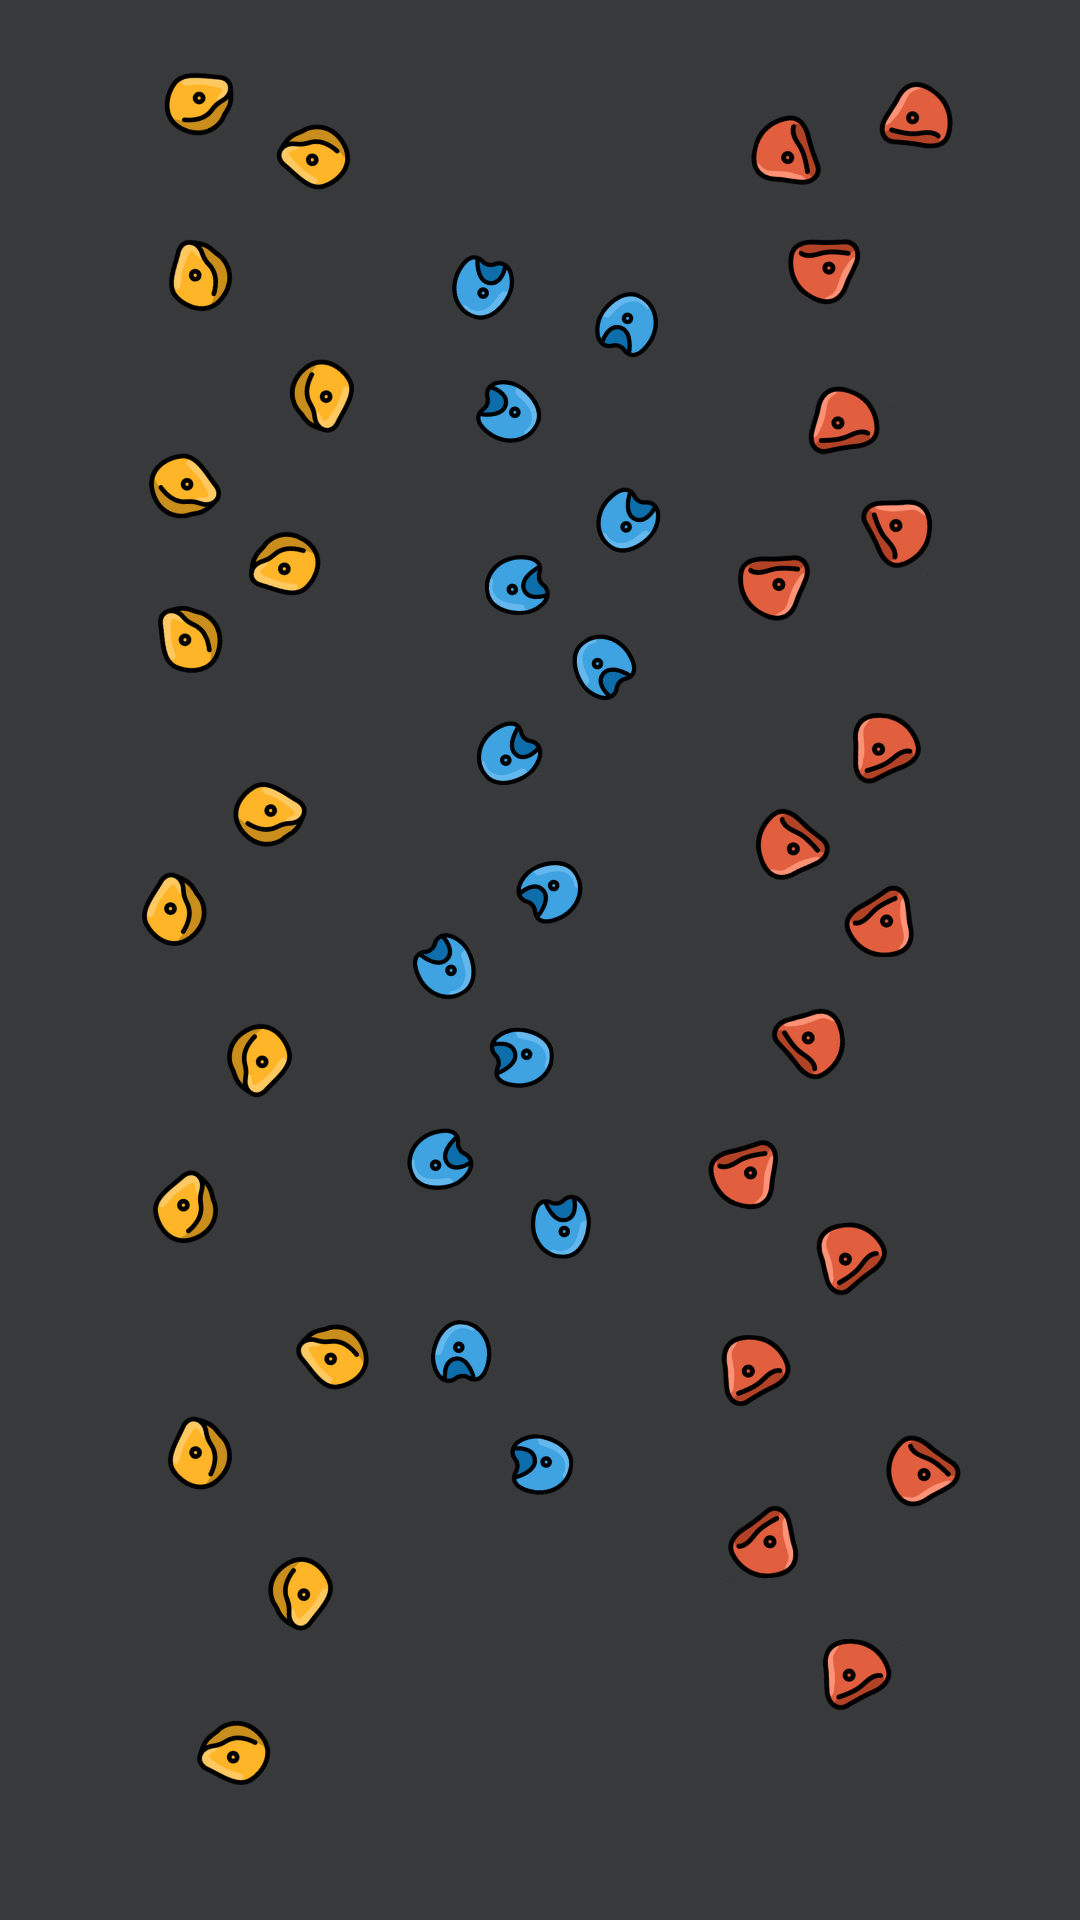
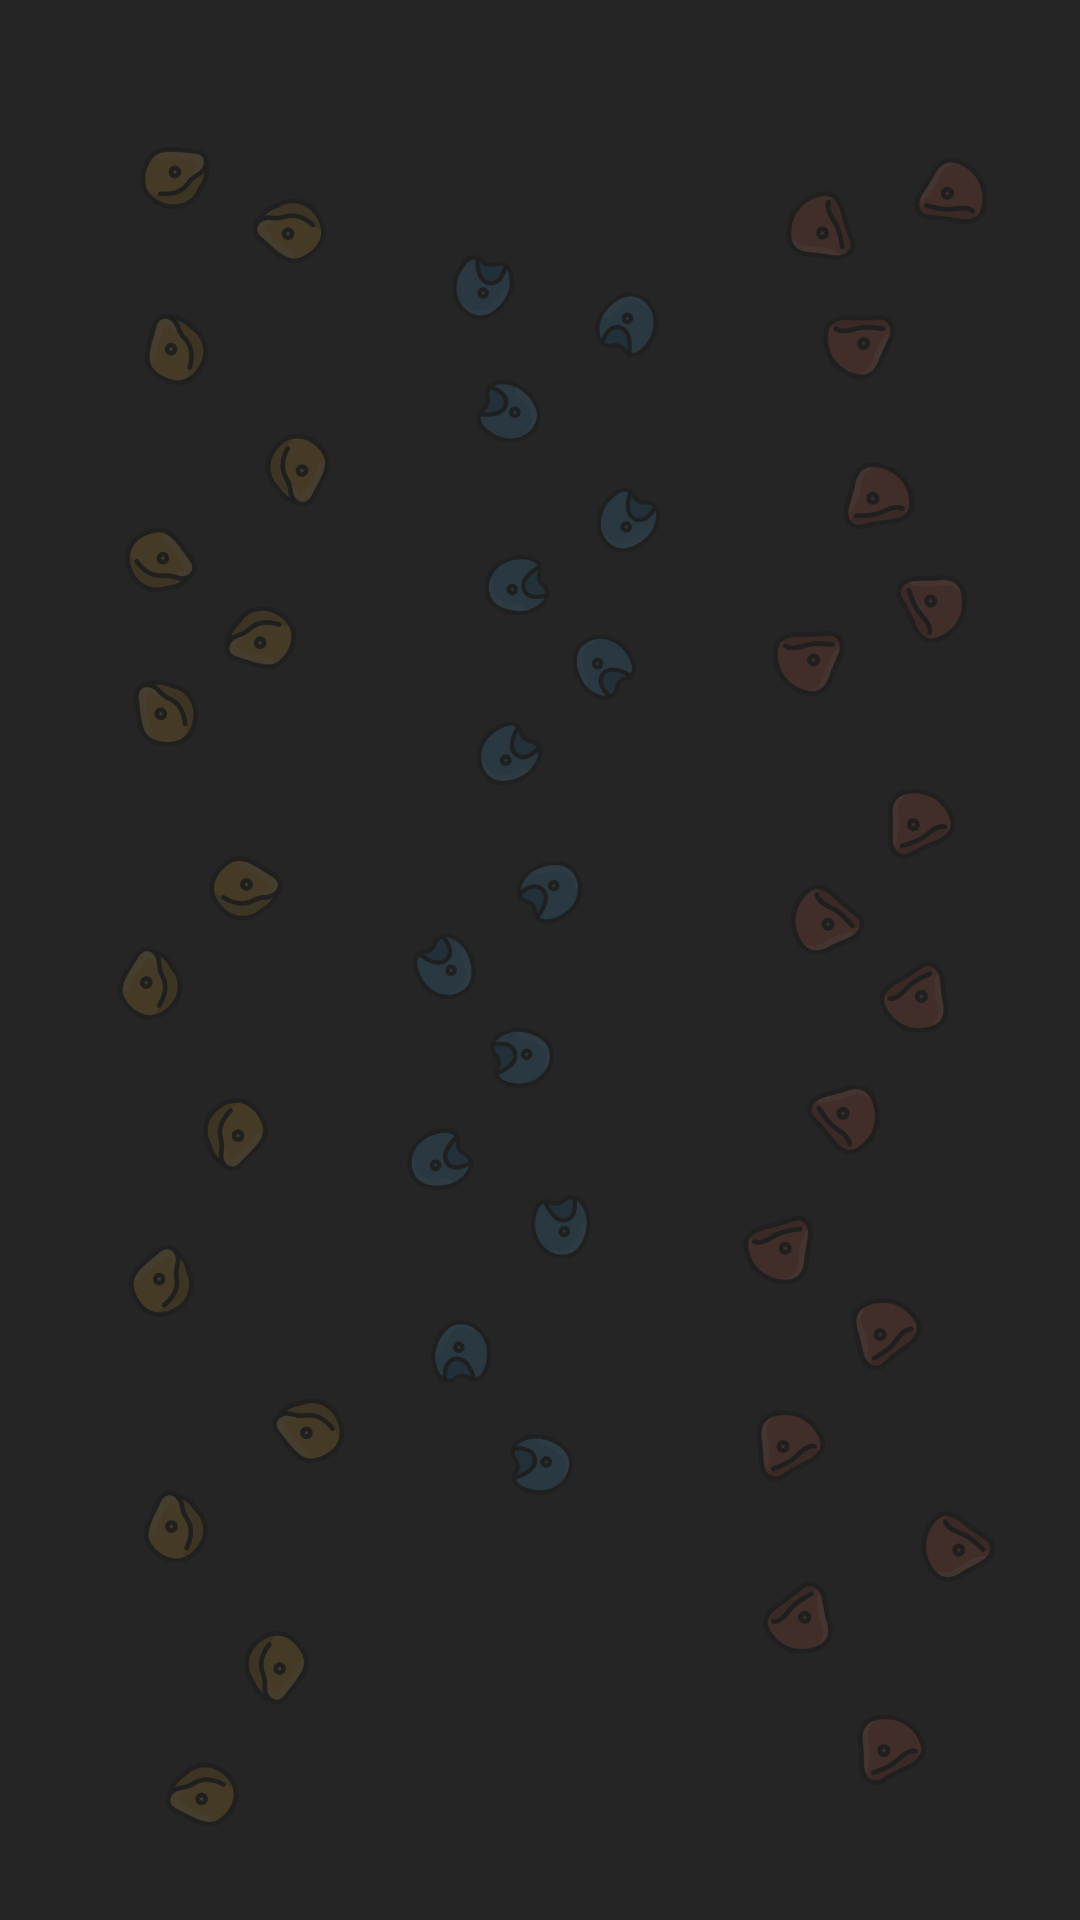
HomePage UI change

diff --git a/frontend/src/pages/home/HomePage.jsx b/frontend/src/pages/home/HomePage.jsx
@@ -20,7 +20,7 @@ const parseGrade = (grade) => {
 
 const HomePage = () => {
   // Queries
-  const { data: authUser } = useQuery({ queryKey: ["authUser"], queryFn: () => fetchData("/api/authUser") });
+  const { data: authUser } = useQuery({ queryKey: ["authUser"], queryFn: () => fetchData("/api/auth/me") });
 
   const { data: topThree, isLoading, isError } = useQuery({
     queryKey: ["topThree"],
@@ -67,21 +67,22 @@ const HomePage = () => {
 
   return (
     // main div that will contain the three sections
-    <div className="bg-custom-bg bg-fixed bg-center flex flex-col justify-center w-full sm:w-[75%] max-w-6xl mx-auto min-h-screen pt-16 text-white mt-20 gap-12">
+    <div className="flex flex-col justify-center w-full sm:w-[75%] max-w-6xl mx-auto min-h-screen pt-16 text-white mt-20 gap-12">
 
       {/* user stats */}
-      <div className="flex flex-col sm:flex-row items-center justify-center sm:justify-evenly bg-[#525458] p-4 rounded-2xl shadow-lg space-y-2 sm:space-y-0 sm:space-x-4">
+      <div className="flex-col sm:flex-row items-center justify-center sm:justify-evenly sm:space-y-5 sm:space-x-4">
         {/* User image and username */}
         <div className="flex flex-col items-center text-center">
           <img
             src={user.profileImg}
             alt="profile"
-            className="w-24 h-24 sm:w-40 sm:h-40 rounded-full"
+            className="w-24 h-24 sm:w-36 sm:h-36 rounded-full"
           />
           <span className="text-xl sm:text-3xl mt-2">{user.username}</span>
         </div>
 
         {/* Stats */}
+        <div className="flex justify-center gap-4">
         {[{
           icon: "/icons/podium.png",
           value: user.rank,
@@ -96,86 +97,90 @@ const HomePage = () => {
           label: "Voies"
         }].map(({ icon, value, label }, index) => (
           <div key={index} className="flex flex-col items-center text-center">
-            <div className="flex flex-col bg-[#FE5F55] h-24 w-32 sm:h-28 sm:w-44 rounded-3xl items-center justify-center shadow-lg mt-4">
-              <img src={icon} alt={label} className="w-8 h-8 sm:w-12 sm:h-12 mb-2" />
+            <div className="flex flex-col bg-[#FE5F55] h-16 w-24 sm:h-24 sm:w-40 rounded-3xl items-center justify-center shadow-lg mt-4">
+              <img src={icon} alt={label} className="w-7 h-7 sm:w-10 sm:h-10" />
               <span className="text-black font-bold text-2xl sm:text-4xl">{value}</span>
             </div>
             <span className="mt-2 sm:mt-4 text-lg sm:text-2xl">{label}</span>
           </div>
         ))}
+        </div>
+
       </div>
 
+      <hr className="border-gray-400 opacity-40 w-3/4 mx-auto mt-8 mb-8" />
+
       {/* Top 3 then next 4 */}
-      <div className="flex flex-col items-center justify-center gap-6 sm:justify-evenly bg-[#525458] p-4 rounded-2xl shadow-lg space-y-2 sm:space-y-0 mt-4 mb-4">
+      <div className="flex flex-col items-center justify-center gap-6 sm:justify-evenly p-4 space-y-2 sm:space-y-0 mb-4 -mt-6">
 
         <h1 className="text-4xl"> Classement </h1>
-        <div className="flex justify-evenly sm:gap-16"> {/* TOP 3 DIV */}
+        <div className="flex justify-evenly sm:gap-2"> {/* TOP 3 DIV */}
           {/* first place */}
           <div className="flex flex-col items-center order-1 sm:order-2 p-4 mt-4">
-            <div className="relative w-32 h-32 sm:w-40 sm:h-40 rounded-full bg-[#FFD700] flex items-center justify-center shadow-lg">
+            <div className="relative w-28 h-28 sm:w-36 sm:h-36 rounded-full bg-[#FFD700] flex items-center justify-center shadow-lg">
               <img
                 src={topThree[0]?.profileImg || "/avatar-placeholder.png"}
                 alt="avatar"
-                className="w-28 h-28 sm:w-36 sm:h-36 rounded-full object-cover"
+                className="w-24 h-24 sm:w-32 sm:h-32 rounded-full object-cover"
               />
-              <div className="absolute -top-2 right-1 bg-[#FFD700] text-black rounded-full w-8 h-8 flex items-center justify-center text-lg shadow-sm">1</div>
+              <div className="absolute -top-2 right-1 bg-[#FFD700] text-black rounded-full w-8 h-8 flex items-center justify-center text-xl font-semibold shadow-sm">1</div>
             </div>
             <span className="text-lg sm:text-2xl mt-2">{topThree[0]?.username}</span>
-            <div className="flex justify-center gap-3 items-center bg-[#FFD700] text-black rounded-lg w-28 h-12 mt-2 shadow-lg">
-              <img src="/icons/points.png" alt="points" className="w-8 h-8" />
-              <span className="text-lg sm:text-3xl font-bold">{topThree[0]?.leaderboardScore}</span>
+            <div className="flex justify-center gap-3 items-center bg-[#FFD700] text-black rounded-lg w-24 h-10 mt-2 shadow-lg">
+              <img src="/icons/points.png" alt="points" className="w-6 h-6" />
+              <span className="text-lg sm:text-2xl font-bold">{topThree[0]?.leaderboardScore}</span>
             </div>
           </div>
           {/* second place */}
           <div className="flex flex-col items-center order-2 sm:order-1 p-4 mt-4 sm:mt-12">
-            <div className="relative w-32 h-32 sm:w-40 sm:h-40 rounded-full bg-[#C0C0C0] flex items-center justify-center shadow-lg">
+            <div className="relative w-28 h-28 sm:w-36 sm:h-36 rounded-full bg-[#C0C0C0] flex items-center justify-center shadow-lg">
               <img
                 src={topThree[1]?.profileImg || "/avatar-placeholder.png"}
                 alt="avatar"
-                className="w-28 h-28 sm:w-36 sm:h-36 rounded-full object-cover"
+                className="w-24 h-24 sm:w-32 sm:h-32 rounded-full object-cover"
               />
-              <div className="absolute -top-2 right-1 bg-[#C0C0C0] text-black rounded-full w-8 h-8 flex items-center justify-center text-lg shadow-sm">2</div>
+              <div className="absolute -top-2 right-1 bg-[#C0C0C0] text-black rounded-full w-8 h-8 flex items-center justify-center text-xl font-semibold shadow-sm">2</div>
             </div>
             <span className="text-lg sm:text-2xl mt-2">{topThree[1]?.username}</span>
-            <div className="flex justify-center gap-3 items-center bg-[#C0C0C0] text-black rounded-lg w-28 h-12 mt-2 shadow-lg">
-              <img src="/icons/points.png" alt="points" className="w-8 h-8" />
-              <span className="text-lg sm:text-3xl font-bold">{topThree[1]?.leaderboardScore}</span>
+            <div className="flex justify-center gap-3 items-center bg-[#C0C0C0] text-black rounded-lg w-24 h-10 mt-2 shadow-lg">
+              <img src="/icons/points.png" alt="points" className="w-6 h-6" />
+              <span className="text-lg sm:text-2xl font-bold">{topThree[1]?.leaderboardScore}</span>
             </div>
           </div>
           {/* third place */}
           <div className="flex flex-col items-center order-3 sm:order-3 p-4 mt-4 sm:mt-12">
-            <div className="relative w-32 h-32 sm:w-40 sm:h-40 rounded-full bg-[#cd7f32] flex items-center justify-center shadow-lg">
+            <div className="relative w-28 h-28 sm:w-36 sm:h-36 rounded-full bg-[#cd7f32] flex items-center justify-center shadow-lg">
               <img
                 src={topThree[2]?.profileImg || "/avatar-placeholder.png"}
                 alt="avatar"
-                className="w-28 h-28 sm:w-36 sm:h-36 rounded-full object-cover"
+                className="w-24 h-24 sm:w-32 sm:h-32 rounded-full object-cover"
               />
-              <div className="absolute -top-2 right-1 bg-[#cd7f32] text-black rounded-full w-8 h-8 flex items-center justify-center text-lg shadow-sm">3</div>
+              <div className="absolute -top-2 right-1 bg-[#cd7f32] text-black rounded-full w-8 h-8 flex items-center justify-center text-xl font-semibold shadow-sm">3</div>
             </div>
             <span className="text-lg sm:text-2xl mt-2">{topThree[2]?.username}</span>
-            <div className="flex justify-center gap-3 items-center bg-[#cd7f32] text-black rounded-lg w-28 h-12 mt-2 shadow-lg">
-              <img src="/icons/points.png" alt="points" className="w-8 h-8" />
-              <span className="text-lg sm:text-3xl font-bold">{topThree[2]?.leaderboardScore}</span>
+            <div className="flex justify-center gap-3 items-center bg-[#cd7f32] text-black rounded-lg w-24 h-10 mt-2 shadow-lg">
+              <img src="/icons/points.png" alt="points" className="w-6 h-6" />
+              <span className="text-lg sm:text-2xl font-bold">{topThree[2]?.leaderboardScore}</span>
             </div>
           </div>
         </div>
 
-        <div className="flex flex-wrap justify-evenly sm:gap-12"> {/* NEXT 4 DIV */}
+        <div className="flex flex-wrap justify-evenly sm:gap-6"> {/* NEXT 4 DIV */}
           {restOfList.length > 0 ? (
             restOfList.slice(0, 4).map((user, index) => (
               <div key={index} className="flex flex-col items-center p-4 mt-4">
-                <div className="relative w-32 h-32 sm:w-32 sm:h-32 rounded-full bg-[#808080] flex items-center justify-center shadow-lg">
+                <div className="relative w-32 h-32 sm:w-28 sm:h-28 rounded-full bg-[#808080] flex items-center justify-center shadow-lg">
                   <img
                     src={user.profileImg || "/avatar-placeholder.png"}
                     alt="avatar"
-                    className="w-28 h-28 sm:w-32 sm:h-32 rounded-full object-cover"
+                    className="w-28 h-28 sm:w-24 sm:h-24 rounded-full object-cover"
                   />
                   <div className="absolute -top-2 right-1 bg-[#808080] text-black rounded-full w-8 h-8 flex items-center justify-center text-xl font-semibold shadow-sm">{index + 4}</div>
                 </div>
                 <span className="text-lg sm:text-2xl mt-2">{user.username}</span>
-                <div className="flex justify-center gap-3 items-center bg-[#808080] text-black rounded-lg w-28 h-12 mt-2 shadow-lg">
-                  <img src="/icons/points.png" alt="points" className="w-8 h-8" />
-                  <span className="text-lg sm:text-3xl font-bold">{user.leaderboardScore}</span>
+                <div className="flex justify-center gap-3 items-center bg-[#808080] text-black rounded-lg w-24 h-10 mt-2 shadow-lg">
+                  <img src="/icons/points.png" alt="points" className="w-6 h-6" />
+                  <span className="text-lg sm:text-2xl font-bold">{user.leaderboardScore}</span>
                 </div>
               </div>
             ))
@@ -190,8 +195,10 @@ const HomePage = () => {
 
       </div>
 
+      <hr className="border-gray-400 opacity-40 w-3/4 mx-auto mt-8 mb-8" />
+
       {/* Newly opened routes  (2 latest roures) */}
-      <div className="flex flex-col items-center gap-8 justify-center bg-[#525458] p-4 rounded-2xl shadow-lg space-y-2 sm:space-y-0 sm:space-x-4 mb-8">
+      <div className="flex flex-col items-center gap-8 justify-center p-4 space-y-2 sm:space-x-4 mb-8 -mt-8">
         <h1 className="text-4xl"> Récemment ouvertes </h1>
         <div className="flex items-center justify-center gap-8">
           {routes.length > 0 ? (

diff --git a/frontend/src/pages/classement/Classement.jsx b/frontend/src/pages/classement/Classement.jsx
@@ -35,7 +35,35 @@ const Classement = () => {
 
   return (
     <div className="bg-custom-bg bg-fixed bg-center flex flex-col justify-center w-full sm:w-[75%] max-w-6xl mx-auto min-h-screen pt-16 text-white mt-20 gap-12">
-     
+      <h1 className="text-4xl font-bold text-center">Classement</h1>
+      <div className="flex flex-col items-center gap-4">
+        <div className="flex flex-col items-center gap-4">
+          <h2 className="text-2xl font-bold">Top 3</h2>
+          <div className="flex flex-col items-center gap-4">
+            {topThree.map((user, index) => (
+              <div key={user.id} className="flex flex-col items-center gap-2">
+                <p className="text-lg">
+                  {index + 1}. {user.username}
+                </p>
+                <p className="text-lg">{user.points} points</p>
+              </div>
+            ))}
+          </div>
+        </div>
+        <div className="flex flex-col items-center gap-4">
+          <h2 className="text-2xl font-bold">Reste du classement</h2>
+          <div className="flex flex-col items-center gap-4">
+            {restOfList.map((user, index) => (
+              <div key={user.id} className="flex flex-col items-center gap-2">
+                <p className="text-lg">
+                  {index + 4}. {user.username}
+                </p>
+                <p className="text-lg">{user.points} points</p>
+              </div>
+            ))}
+          </div>
+        </div>
+      </div>
     </div>
   );
 };

diff --git a/frontend/src/App.jsx b/frontend/src/App.jsx
@@ -43,9 +43,10 @@ function App() {
 
 
 	return (
-		<div className='flex max-w-6xl mx-auto'>
+		<div>
         {/* common components because its not wrapped with routes*/}
 			{ authUser && <Navbar /> }
+			<div className='flex max-w-6xl mx-auto bg-custom-bg bg-fixed bg-center'>
 			<Routes>
 				<Route path='/' element={authUser ? <HomePage /> : <Navigate to='/login' />} />
 				<Route path='/login' element={!authUser ? <LoginPage /> : <Navigate to='/' />} />
@@ -54,6 +55,7 @@ function App() {
 				<Route path='/voie/:id' element={authUser ? <Voie /> : <Navigate to='/' />} />
 				<Route path='/classement' element={authUser ? <Classement /> : <Navigate to='/' />} />
 			</Routes>
+			</div>
 
 	  		<Toaster />
 		</div>

diff --git a/frontend/src/components/common/Navbar.jsx b/frontend/src/components/common/Navbar.jsx
@@ -32,7 +32,7 @@ const Navbar = () => {
   });
 
   return (
-    <div className="navbar bg-[#525458] rounded-full fixed top-5 w-full max-w-6xl mx-auto z-50 shadow-md">
+    <div className="navbar bg-[#252525] fixed w-full mx-auto z-50 shadow-md">
 
         {/* Responsive Menu */}
       <div className="navbar-center lg:hidden">

diff --git a/frontend/tailwind.config.js b/frontend/tailwind.config.js
@@ -19,7 +19,7 @@ export default {
       {
         myCustomTheme: {
           "primary": "#FE5F55",
-          "base-100": "#37393A",
+          "base-100": "#252525",
         },
       },
       "dark", // Fallback theme
